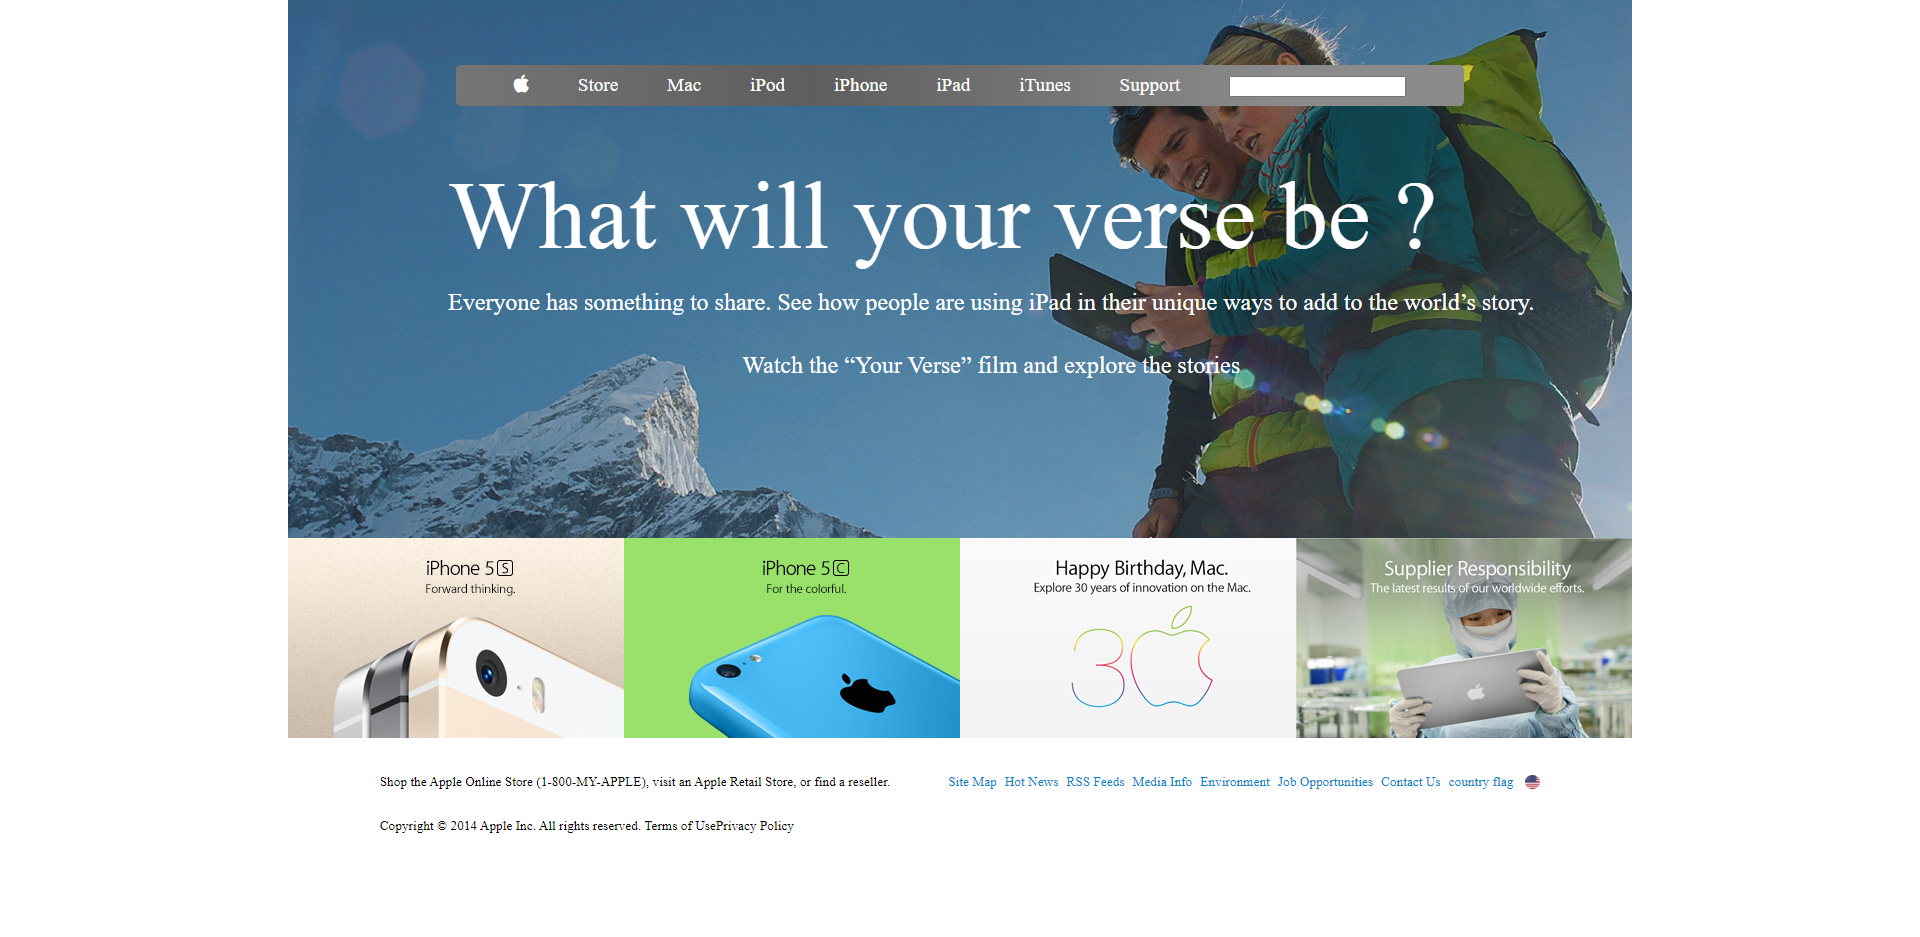
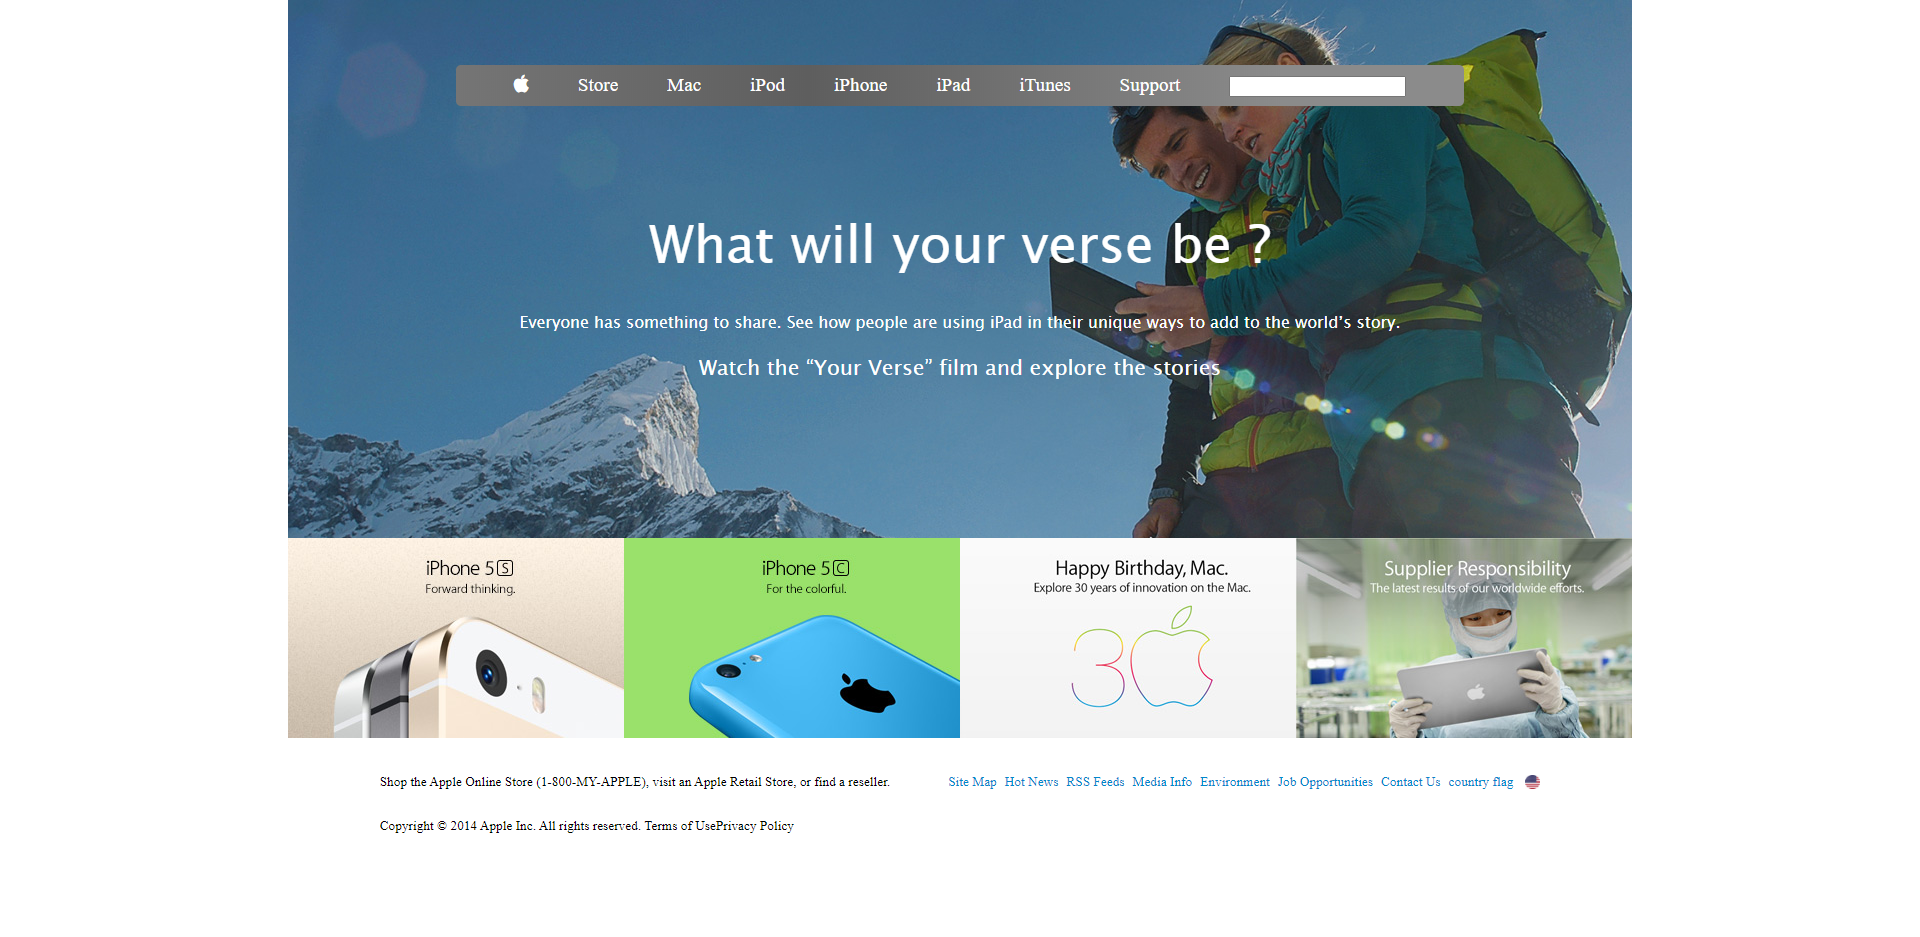
fix styleint

Changed region(s): [[0.2188, 0.3095, 0.8125, 0.4023], [0.2188, 0.1857, 0.75, 0.2785]]

diff --git a/style.css b/style.css
@@ -91,8 +91,8 @@ html {
 }
 
 *,
-*:before,
-*:after {
+*::before,
+*::after {
   box-sizing: inherit;
 }
 
@@ -105,7 +105,6 @@ header {
 }
 
 nav {
-  background-image: url("http://images.apple.com/global/nav/images/globalheader.png");
   background: linear-gradient(
     90deg,
     rgba(117, 117, 117, 1) 0%,
@@ -184,17 +183,13 @@ nav ul li a {
 }
 
 .text {
-  /* position: absolute;
-  left: 10rem;
-  top: 10rem; */
   margin: 100px auto;
   text-align: center;
 }
 
 #main-txt {
   color: white;
-  font-family: "Lucida Grande", "Lucida Sans Unicode", Helvetica, Arial, Verdana,
-    sans-serif;
+  font-family: "Lucida Grande", "Lucida Sans Unicode", Helvetica, Arial, Verdana, sans-serif;
   font-size: 52px;
   font-weight: lighter;
   height: 65px;
@@ -205,8 +200,7 @@ nav ul li a {
   font-size: 16px;
   line-height: 18px;
   margin-bottom: 27px;
-  font-family: "Lucida Grande", "Lucida Sans Unicode", Helvetica, Arial, Verdana,
-    sans-serif;
+  font-family: "Lucida Grande", "Lucida Sans Unicode", Helvetica, Arial, Verdana, sans-serif;
   cursor: pointer;
   margin-top: 25px;
   text-align: center;
@@ -219,8 +213,7 @@ nav ul li a {
   font-weight: 400;
   height: 64px;
   line-height: 18px;
-  font-family: "Lucida Grande", "Lucida Sans Unicode", Helvetica, Arial, Verdana,
-    sans-serif;
+  font-family: "Lucida Grande", "Lucida Sans Unicode", Helvetica, Arial, Verdana, sans-serif;
   cursor: pointer;
 }
 
@@ -241,8 +234,8 @@ footer ul {
 }
 
 footer ul li {
-  font-size: 13.3344px;
-  font-family: "Times New Roman";
+  font-size: 10px;
+  font-family: "Lucida Grande", "Lucida Sans Unicode", Helvetica, Arial, Verdana, sans-serif;
   padding: 4px;
 }
 
